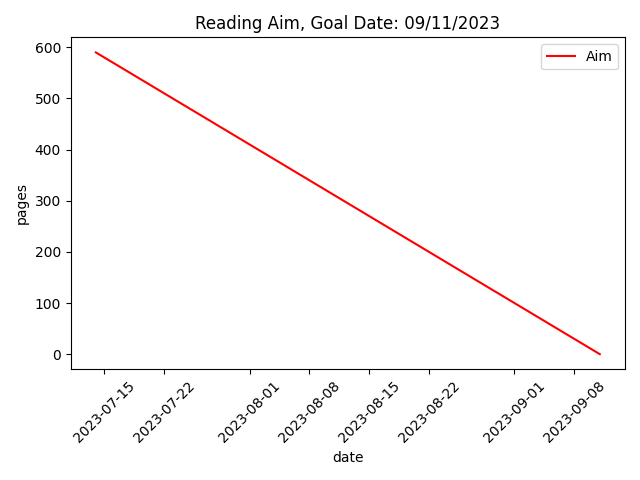
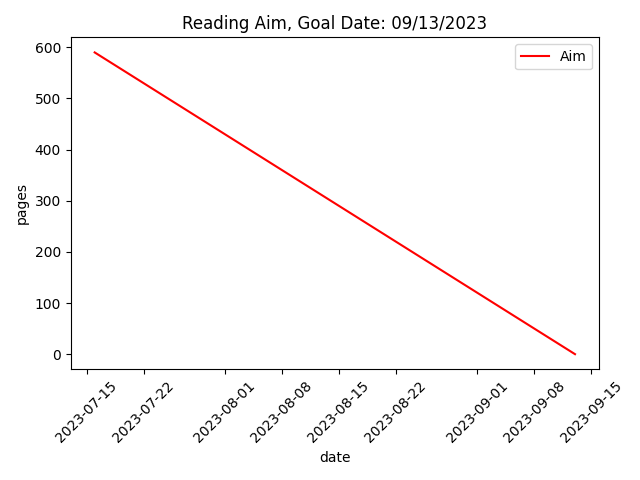
add buffer

diff --git a/src/dda/draw/aim.py b/src/dda/draw/aim.py
@@ -7,11 +7,28 @@ import datetime
 import pandas as pd
 from pandas.core.indexes.datetimes import DatetimeIndex
 
-def draw_aim(start_date: datetime.date, total_pages: int, pages_per_day_goal: int, save_path: Optional[str]=None) -> Optional[tuple[DatetimeIndex, list[int]]]:
-    days_to_goal: int = total_pages / pages_per_day_goal
+def draw_aim(start_date: datetime.date, total_pages: int, pages_per_day_goal: int, buffer_days: int = 0, save_path: Optional[str] = None) -> Optional[tuple[DatetimeIndex, list[int]]]:
+    days_to_goal_without_buffer: int = int((total_pages + (pages_per_day_goal - 1)) / pages_per_day_goal)
+    days_to_goal: int
+    if buffer_days != 0:
+        days_to_goal = days_to_goal_without_buffer + int(days_to_goal_without_buffer / buffer_days)
+    else:
+        days_to_goal = days_to_goal_without_buffer
+    
     goal_date: datetime.date = start_date + datetime.timedelta(days=days_to_goal)
+    
     dates: DatetimeIndex = pd.date_range(start=start_date, end=goal_date, freq='D')
-    pages: list[int] = [pages_per_day_goal * (len(dates)-1 -i) for i in range(len(dates))]
+    
+    pages_per_day_buffered: int = total_pages / days_to_goal 
+    
+    pages: list[int] = [total_pages - i * pages_per_day_goal for i in range(days_to_goal_without_buffer+1)]
+
+    if buffer_days > 0:
+        num_buffers: int = days_to_goal - days_to_goal_without_buffer
+        for i in range(num_buffers):
+            print((i+1)*buffer_days+i, len(pages))
+            pages.insert((i+1)*buffer_days+i, pages[(i+1)*buffer_days+i-1]) 
+
     if save_path is not None:
         fig: Figure
         ax: Axes
@@ -32,10 +49,18 @@ def draw_aim(start_date: datetime.date, total_pages: int, pages_per_day_goal: in
 
 if __name__ == "__main__":
     save_file: str = "../../../tmp_files/aim.draw_aim.png"
-    draw_aim(datetime.date.today(), 590, 10, save_file)
+    draw_aim(datetime.date.today(), 590, 10, save_path = save_file)
+    save_file_not_splitted: str = "../../../tmp_files/aim.draw_aim.not_splitted.png"
+    draw_aim(datetime.date.today(), 20, 11, save_path= save_file_not_splitted)
 
+    save_file_buffer7: str = "../../../tmp_files/aim.draw_aim.buffer.png"
+    draw_aim(datetime.date.today(), 590, 10, buffer_days= 7, save_path = save_file_buffer7)
+    save_file_buffer7: str = "../../../tmp_files/aim.draw_aim.buffer.not_splitted.png"
+    draw_aim(datetime.date.today(), 78, 11, buffer_days= 5, save_path = save_file_buffer7)
+
+    
     dates: DatetimeIndex
     pages: list[int]
-    dates, pages = draw_aim(datetime.date.today(), 590, 10)
+    dates, pages = draw_aim(datetime.date.today(), 590, 10, buffer_days= 7)
     print(type(dates), type(pages))
     print(dates.shape, len(pages))
